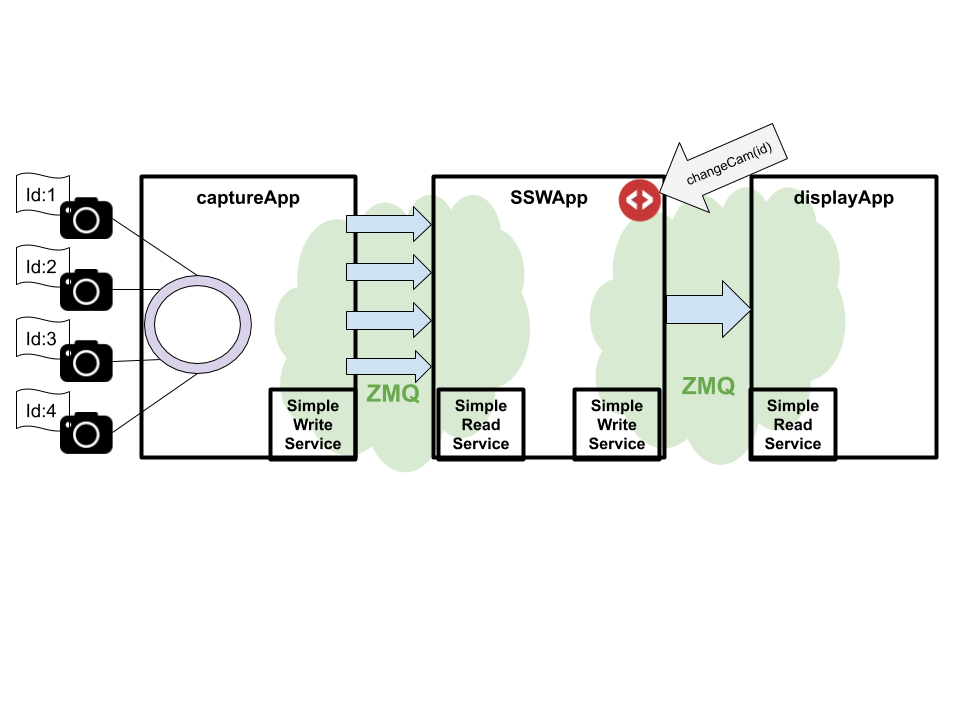
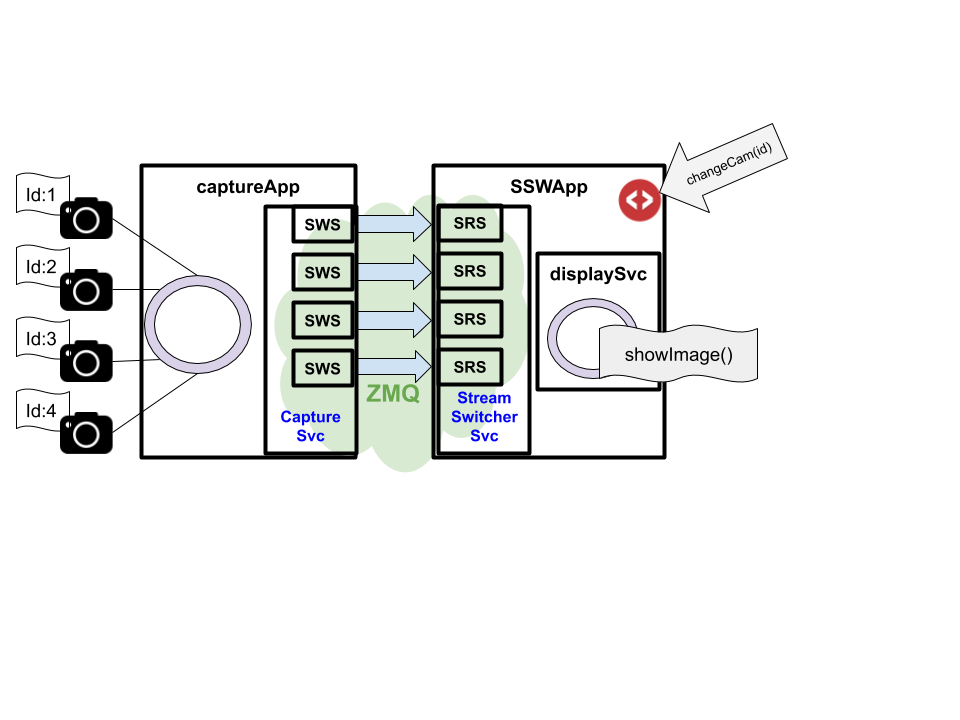
loop publishers

Changed region(s): [[0.4375, 0.2139, 1.0, 0.6417], [0.125, 0.2139, 0.375, 0.6417]]

diff --git a/modules/zmq_application/switcher_application/src/switcher_application.cpp b/modules/zmq_application/switcher_application/src/switcher_application.cpp
@@ -26,66 +26,61 @@ int main(int argc, char **argv)
 
   int imgWidth = 320;
   int imgHeight = 240;
-  std::string recvImgUrl;
   std::string imgTopic;
-  yamlEnv.getPropertyString("recv_img_url", recvImgUrl);
+  std::string imgUrlRoot;
+  std::vector<std::string> recvImgUrls;
+  int numSubscribers;
+  int loopPeriod;
+
+  yamlEnv.getPropertyString("recv_img_url_root", imgUrlRoot);
   yamlEnv.getPropertyString("image_topic", imgTopic);
+  yamlEnv.getPropertyInt("num_subscribers", numSubscribers);
+  yamlEnv.getPropertyInt("loop_period", loopPeriod);
 
-  kpsr::Subscriber<kpsr::vision_ocv::ImageData> *imageSubscriber;
-  kpsr::Publisher<kpsr::vision_ocv::ImageData> *imagePublisher;
-
-  zmq::context_t context(1);
-  zmq::socket_t subscriber(context, ZMQ_SUB);
-  kpsr::zmq_mdlw::FromZmqChannel<Base> *binaryFromZMQProvider;
-  kpsr::zmq_mdlw::FromZmqMiddlewareProvider fromZmqMiddlewareProvider;
-  kpsr::high_performance::EventLoopMiddlewareProvider<128> eventLoop(nullptr);
+  std::vector<kpsr::Subscriber<kpsr::vision_ocv::ImageData>*> imageSubscribers;
+  std::vector<kpsr::Publisher<kpsr::vision_ocv::ImageData>*> imagePublishers;
   kpsr::vision_ocv::ImageDataFactory factory(imgWidth, imgHeight, 0, "frame");
 
-  eventLoop.start();
-  subscriber.connect(recvImgUrl);
-  subscriber.setsockopt(ZMQ_SUBSCRIBE, imgTopic.c_str(), imgTopic.size());
-  binaryFromZMQProvider =
-      fromZmqMiddlewareProvider
-          .getBinaryFromMiddlewareChannel<kpsr::vision_ocv::ImageData>(
-              subscriber, 128);
+  zmq::context_t context(1);
+  std::vector<zmq::socket_t> subscribers(numSubscribers);
+  std::vector<kpsr::zmq_mdlw::FromZmqChannel<Base>> binaryFromZMQProviders(numSubscribers);
+  std::vector<kpsr::zmq_mdlw::FromZmqMiddlewareProvider> fromZmqMiddlewareProviders(numSubscribers);
+  std::vector<ssw::SimpleReadService> simpleReadServices(numSubscribers);
+  kpsr::high_performance::EventLoopMiddlewareProvider<EVENT_LOOP_SIZE> eventloop(nullptr);
 
-  binaryFromZMQProvider->start();
-  imageSubscriber =
-      eventLoop.getSubscriber<kpsr::vision_ocv::ImageData>(imgTopic);
-  imagePublisher =
-      eventLoop.getPublisher<kpsr::vision_ocv::ImageData>(imgTopic, EVENT_LOOP_SIZE, factory.initializerFunction, factory.eventClonerFunction);
+  eventloop.start();
 
-  binaryFromZMQProvider->registerToTopic(imgTopic, imagePublisher);
- 
-  SimpleReadService imgSubscriber(nullptr, imageSubscriber);
+  for(int i=0;i<numSubscribers; i++){
+    recvImgUrls[i] = imgUrlRoot + std::to_string(i);
+    subscribers[i] = zmq::socket_t(context, ZMQ_SUB);
+    subscribers[i].connect(recvImgUrls[i]);
+    subscribers[i].setsockopt(ZMQ_SUBSCRIBE, imgTopic.c_str(), imgTopic.size());
 
-  imgSubscriber.startup();
+    binaryFromZMQProviders[i] = fromZmqMiddlewareProviders[i].getBinaryFromMiddlewareChannel<kpsr::vision_ocv::ImageData>(subscribers[i], 128);
+    binaryFromZMQProviders[i].start();
+    imageSubscribers[i] = eventloop.getSubscriber<kpsr::vision_ocv::ImageData>(imgTopic);
+    imagePublishers[i] = eventloop.getPublisher<kpsr::vision_ocv::ImageData>(imgTopic, EVENT_LOOP_SIZE, factory.initializerFunction, factory.eventClonerFunction);
+    binaryFromZMQProviders[i].registerToTopic(imgTopic, imagePublishers[i]);
 
-  ssw::StreamSwitcherSvc streamSwitcherSvc(&yamlEnv);
-  streamSwitcherSvc.startup();
-
-  ssw::DisplaySvc displaySvc(&yamlEnv);
-  displaySvc.startup();
-
-  while (true)
-  {
-    imgSubscriber.runOnce();
-    //streamSwitcherSvc.runOnce();
-    //displaySvc.runOnce();
-    std::this_thread::sleep_for(std::chrono::milliseconds(200));
+    simpleReadServices[i](nullptr, *imageSubscribers[i]);
+    simpleReadServices[i].startup();
   }
 
-  displaySvc.shutdown();
-  streamSwitcherSvc.shutdown();
-  imgSubscriber.shutdown();
+  ssw::StreamSwitcherSvc streamSwitcherSvc(&yamlEnv);
+  ssw::DisplaySvc displaySvc(&yamlEnv, imageSubscribers[0]);
+
+  while (true)
+  {     //  --> use eventLoop scheduler  (event_loop_middleware_provider.h)
+
+    for(int i=0;i<numSubscribers; i++){
+      simpleReadServices[i].runOnce();
+    }
+    std::this_thread::sleep_for(std::chrono::milliseconds(loopPeriod));
+  }
+
+  for(int i=0;i<numSubscribers; i++){
+      simpleReadServices[i].shutdown();
+  }
 
   return 0;
-} // end main()
-
-
-
-
-
-
-
- 
+}

diff --git a/modules/zmq_application/capture_application/src/capture_application.cpp b/modules/zmq_application/capture_application/src/capture_application.cpp
@@ -1,5 +1,3 @@
-
-
 #include <iostream>
 #include <thread>
 #include "opencv2/core/core.hpp"
@@ -26,43 +24,53 @@ int main(int argc, char **argv)
 
   int imgWidth = 320;
   int imgHeight = 240;
-  std::string ImgUrl;
+  int numPublishers;
   std::string imgTopic;
-  std::string fileImagesPath;
-  yamlEnv.getPropertyString("img_url", ImgUrl);
+  std::string imgUrlRoot;
+  std::string fileImagesPathRoot;
+  std::vector<std::string> fileImagesPaths;
+  std::vector<std::string> imgUrls;
+  int loopPeriod;
+
+  yamlEnv.getPropertyInt("num_publishers", numPublishers);
+  yamlEnv.getPropertyString("file_images_path_root", fileImagesPathRoot);
+  fileImagesPathRoot = PROJECT_PATH + fileImagesPathRoot;
+  spdlog::warn("fileImagesPathRoot: {}", fileImagesPathRoot);
+  yamlEnv.getPropertyString("img_url_root", imgUrlRoot);
   yamlEnv.getPropertyString("image_topic", imgTopic);
-  yamlEnv.getPropertyString("file_images_path", fileImagesPath);
+  yamlEnv.getPropertyInt("loop_period", loopPeriod);
+  
+  zmq::context_t context(1);
+  std::vector<zmq::socket_t> publishers(numPublishers);
+  std::vector<kpsr::zmq_mdlw::ToZMQMiddlewareProvider> toZMQMiddlewareProviders(numPublishers);
+  std::vector<kpsr::Publisher<kpsr::vision_ocv::ImageData>> toZMQPublishers(numPublishers);
+  std::vector<ssw::SimpleWriteService> simpleWriteServices(numPublishers);
 
-  kpsr::Subscriber<kpsr::vision_ocv::ImageData> *imageSubscriber;
-  kpsr::Publisher<kpsr::vision_ocv::ImageData> *imagePublisher;
+  for(int i=0;i<numPublishers; i++){
+    fileImagesPaths[i] = fileImagesPathRoot + std::to_string(i);
+    imgUrls[i] = imgUrlRoot + std::to_string(i);
+    publishers[i] = zmq::socket_t(context, ZMQ_PUB);
+    publishers[i].bind(imgUrls[i]);
 
-  zmq::context_t context (1);
-  zmq::socket_t publisher (context, ZMQ_PUB);
-  publisher.bind(ImgUrl);
-
-  kpsr::zmq_mdlw::ToZMQMiddlewareProvider toZMQMiddlewareProvider(nullptr, publisher);
-  kpsr::Publisher<kpsr::vision_ocv::ImageData> * toZMQPublisher = toZMQMiddlewareProvider.getBinaryToMiddlewareChannel<kpsr::vision_ocv::ImageData>(imgTopic, 0);
-
-  SimpleWriteService imgPublisher(nullptr, toZMQPublisher, fileImagesPath, true);
-
-  imgPublisher.startup();
-
-  while (true)
-  {
-    spdlog::info("runOnce();");
-    imgPublisher.runOnce();
-    std::this_thread::sleep_for(std::chrono::milliseconds(1000));
+    toZMQMiddlewareProviders[i] = kpsr::zmq_mdlw::ToZMQMiddlewareProvider(nullptr, *publishers[i]);
+    toZMQPublishers[i] = toZMQMiddlewareProviders[i]->getBinaryToMiddlewareChannel<kpsr::vision_ocv::ImageData>(imgTopic, 0);
+    
+    simpleWriteServices[i](nullptr, toZMQPublishers[i], fileImagesPaths[i], true);
+    simpleWriteServices[i](nullptr, nullptr, fileImagesPaths[i], true);
+    simpleWriteServices[i].startup();
   }
 
-  imgPublisher.shutdown();
+  while (true)
+  {     //  --> use eventLoop scheduler  (event_loop_middleware_provider.h)
+    for(int i=0;i<numPublishers; i++){
+      simpleWriteServices[i].runOnce();
+    }
+    std::this_thread::sleep_for(std::chrono::milliseconds(loopPeriod));
+  }
+
+  for(int i=0;i<numPublishers; i++){
+      simpleWriteServices[i].shutdown();
+  }
 
   return 0;
-} // end main()
-
-
-
-
-
-
-
- 
+}

diff --git a/modules/services/capture_svc/include/simple_read_service.h b/modules/services/capture_svc/include/simple_read_service.h
@@ -14,6 +14,8 @@
 
 #include <klepsydra/vision_ocv/image_event_data.h>
 
+namespace ssw
+{
 class SimpleReadService : public kpsr::Service
 {
 public:
@@ -50,7 +52,7 @@ public:
         if(!_lastReadImg.img.data) {
             spdlog::warn("no image data");
         }
-        cv::imshow("Display window", _lastReadImg.img);
+        cv::imshow("Display window", _lastReadImg.img); // CONFIGURABLE WINDOWS_NAME
         spdlog::info("displaying..."); //OpenCV compiled with GTK_ON, but window is not displayed in Ubuntu18.04 (test OCV4)
     }
 
@@ -61,5 +63,5 @@ private:
     kpsr::Subscriber<kpsr::vision_ocv::ImageData> * _subscriber;
     long _startTimestamp;
 };
-
+}
 #endif // SIMPLE_READ_SERVICE_H

diff --git a/modules/services/display_svc/src/display_svc.cpp b/modules/services/display_svc/src/display_svc.cpp
@@ -1,13 +1,11 @@
-
-
 #include <iostream>
-
 #include "display_svc.h"
 
 namespace ssw
 {
-DisplaySvc::DisplaySvc(kpsr::Environment *environment)
-    : Service(environment, "stream_switcher_service") {}
+DisplaySvc::DisplaySvc(kpsr::Environment *environment, kpsr::Subscriber<kpsr::vision_ocv::ImageData> *imgsubscriber)
+    : Service(environment, "stream_switcher_service")
+    , _activeCamera(environment, imgsubscriber) {}
 
 void DisplaySvc::start()
 {
@@ -20,11 +18,7 @@ void DisplaySvc::stop()
 }
 
 void DisplaySvc::execute()
-{
-  //spdlog::info("Execute");
-   //read img to _currentImage
-  //showImage(_currentImage);
-  
+{ 
 }
 
 void DisplaySvc::showImage(kpsr::vision_ocv::ImageData &image)

diff --git a/modules/services/display_svc/include/display_svc.h b/modules/services/display_svc/include/display_svc.h
@@ -14,12 +14,14 @@
 
 #include <klepsydra/vision_ocv/image_event_data.h>
 
+#include "simple_read_service.h"
+
 namespace ssw
 {
 class DisplaySvc : public kpsr::Service
 {
 public:
-  DisplaySvc(kpsr::Environment *environment);
+  DisplaySvc(kpsr::Environment *environment, kpsr::Subscriber<kpsr::vision_ocv::ImageData> *imgsubscriber);
 
   ~DisplaySvc(){};
 
@@ -31,6 +33,7 @@ protected:
   void showImage(kpsr::vision_ocv::ImageData &image);
 
 private:
+  SimpleReadService _activeCamera;
   kpsr::vision_ocv::ImageData _currentImage;
 
 };

diff --git a/modules/services/stream_switcher_svc/include/stream_switcher_svc.h b/modules/services/stream_switcher_svc/include/stream_switcher_svc.h
@@ -30,13 +30,6 @@ protected:
   void start() override;
   void stop() override;
   void execute() override;
-/*
-  vec<Subscriber<NCams>>
-  Publisher<cam>
-  subscriber<idCam>
-  vector<imgdata>
-  [_index, , i, _publisher](const kpsr::ImgData & image) {
-*/
 private:
   void onImgReceived(const kpsr::vision_ocv::ImageData &img);
 

diff --git a/modules/services/capture_svc/include/simple_write_service.h b/modules/services/capture_svc/include/simple_write_service.h
@@ -13,6 +13,8 @@
 
 #include "file_utils.h"
 
+namespace ssw
+{
 class SimpleWriteService : public kpsr::Service
 {
 public:
@@ -93,6 +95,6 @@ private:
     unsigned index;
     std::vector<int>::size_type sz;
 };
-
+}
 
 #endif // SIMPLE_WRITE_SERVICE_H

diff --git a/modules/zmq_application/common/config.h b/modules/zmq_application/common/config.h
@@ -2,3 +2,4 @@
 #define EVENT_LOOP_SIZE 128
 #define CONTAINER_SIZE 128
 #define TEST_DATA "/home/javi/projects/stream-switcher-poc/tests/"
+#define PROJECT_PATH "/home/javi/projects/stream-switcher-poc/"

diff --git a/README.md b/README.md
@@ -1,3 +1,30 @@
-# stream-switcher-poc
+
+
+Stream Switcher Poc
+======
 
 ![mm flowchart](StreamerSwitchDiagram.png "SSW")
+
+# Installation requirements
+
+#### ZeroMQ
+----------
+#### OpenCV
+-----------
+#### Klepsydra core
+----------------------------
+#### Klepsydra robotics
+----------------------------
+
+# Launch instructions
+
+SSW App
+--------------------
+    cd ~/projects/stream-switcher-poc/build/bin/
+    ./switcher_application ../../modules/config/yaml/switcherConfig.yaml
+ 
+Capt App
+--------------------
+    cd ~/projects/stream-switcher-poc/build/bin/
+    ./capture_application ../../modules/config/yaml/captureConfig.yaml
+ 
